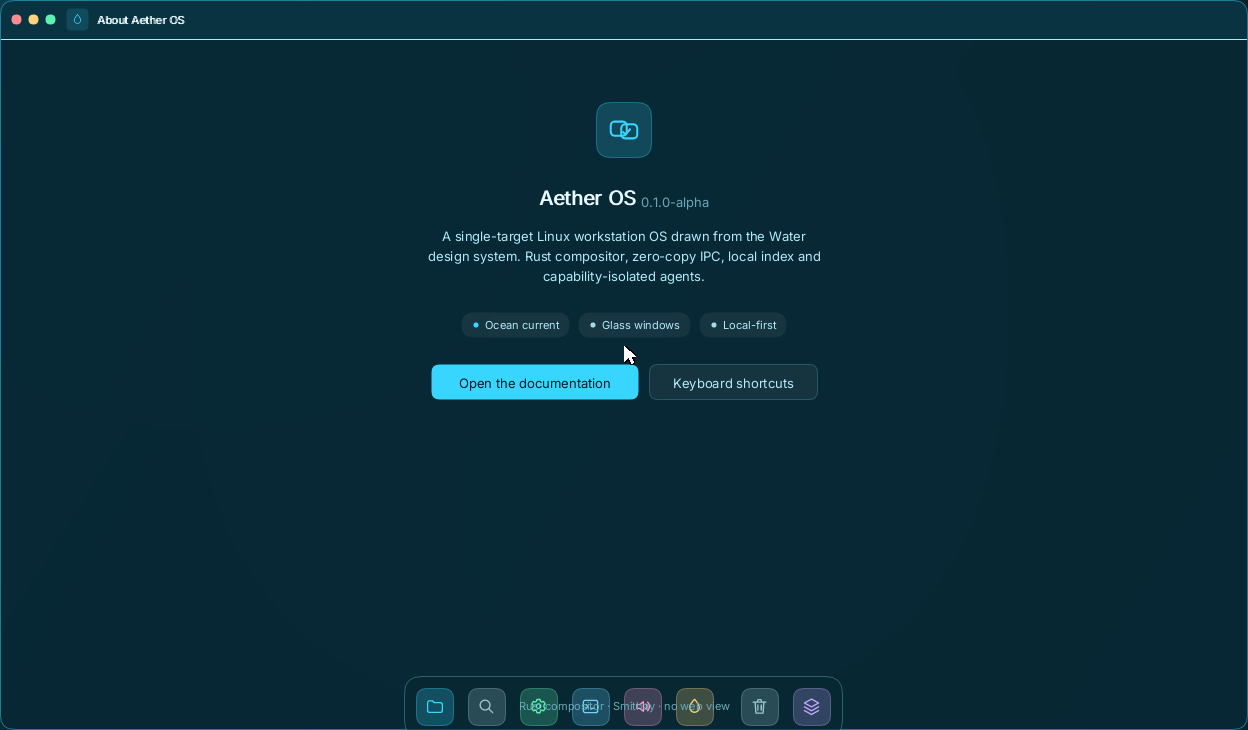
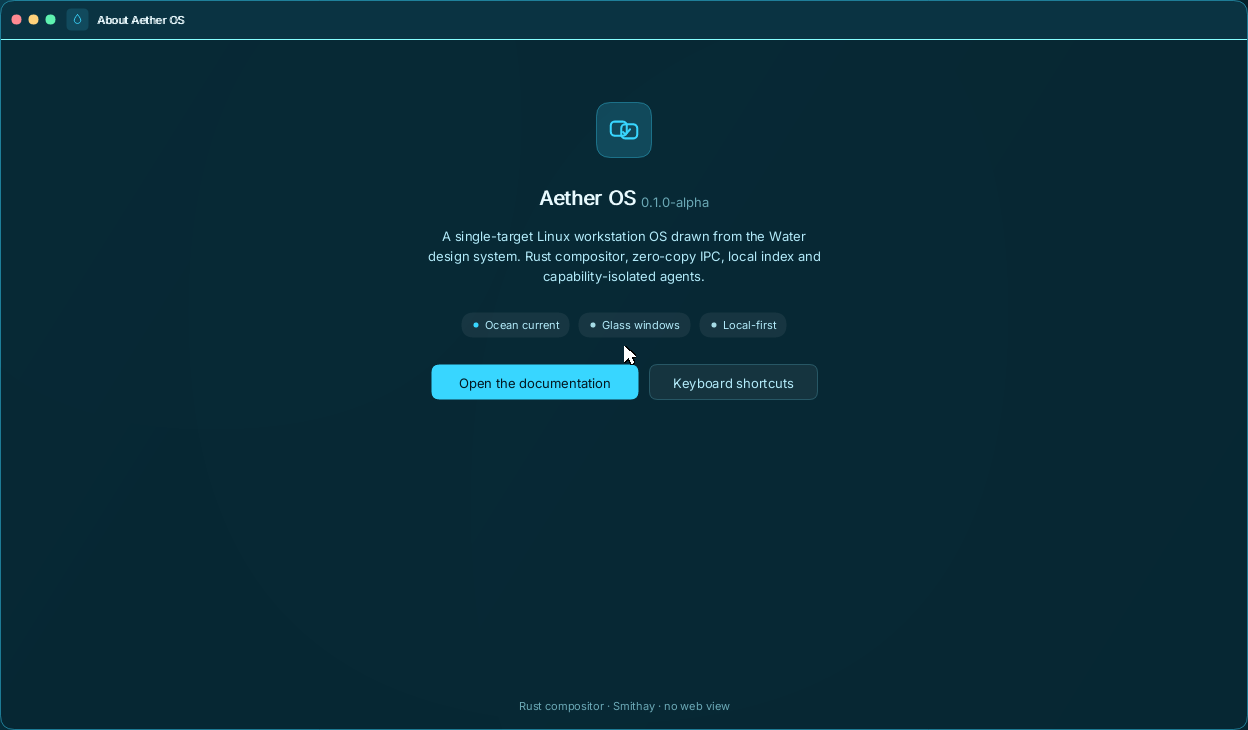
docs(parity): refresh the app report with the new apps and trays
Capture every first-party app and tray in one smoke run
(smoke-system-apps-xvfb.sh) with AETHER_HIDE_DOCK so the dock never bleeds
into a window crop. The report now shows 18 implemented, 2 partial, 2
missing and 4 Aether-only surfaces, with 46 element screenshots, the new
Aether revision and the demo's current window box (1248 x 730).

Changed region(s): [[0.3125, 0.9342, 0.6875, 1.0]]

diff --git a/reports/os-app-parity/index.html b/reports/os-app-parity/index.html
@@ -41,7 +41,7 @@
   <p class="lede">Every surface from the Water OS demo next to the current Aether compositor. Captures are element or window crops only — no full-desktop frames.</p>
   <p class="meta">
     <span>Source · ba9740a Center dock tiles in left and right dock positions (+ local changes)</span>
-    <span>Aether · 7c4596b feat(shell): bring the Explorer up to the demo layout</span>
+    <span>Aether · 53019ca feat(shell): grow first-party windows to the demo's 730 px box</span>
     <span>1280×800 · clock pinned to 2026-11-18 16:47 UTC</span>
   </p>
   <div class="stats">

diff --git a/os/compositor/aether-shell-wayland/src/app/overlays/dock.rs b/os/compositor/aether-shell-wayland/src/app/overlays/dock.rs
@@ -15,6 +15,11 @@ impl App {
     }
 
     pub(crate) fn dock_visible(&self, output: OutputId) -> bool {
+        // Capture switch: app-only screenshots should not bake the floating
+        // dock over the bottom of a window crop.
+        if std::env::var_os("AETHER_HIDE_DOCK").is_some() {
+            return false;
+        }
         self.shell.fullscreen_window_on(output).is_none()
     }
 

diff --git a/CHANGELOG.md b/CHANGELOG.md
@@ -1,3 +1,26 @@
+## v0.1.0-alpha.80
+
+- Close most of the app parity gap against the Water OS concept. New
+  compositor-owned windows, each with the demo's 1248 × 730 box and 40 px title
+  bar: **Network** (interfaces, IP, router, DNS, switches), **Battery** (charge,
+  energy mode, health, CPU consumers), **Devices** (Bluetooth), **Tide Radio**
+  (artwork, transport, queue), **About**, and a **14-tab Settings** app whose
+  Appearance switches drive the Water theme.
+- Add the five **menu-bar trays** at the demo's exact sizes: Wi-Fi, Bluetooth,
+  battery (with energy segments), sound (volume) and a calendar month popover.
+  Each footer opens the matching app.
+- Rebuild the **Explorer** as the demo's single-pane browser: sidebar,
+  breadcrumb toolbar, hidden switch, in-pane search row and
+  Name/Type/Size/Modified columns backed by one stat per path.
+- Turn the **Task Manager** into a first-party window and grow every window to
+  the source concept's 730 px height; the dock floats above the window bottom.
+- Add `smoke-system-apps-xvfb.sh` (all apps + trays in one capture run) and an
+  `AETHER_HIDE_DOCK` capture switch for clean window crops. The parity report is
+  now **18 implemented / 2 partial / 2 missing / 4 Aether-only**.
+- Verification: `cargo test` (aether-shell 85, aether-shell-wayland 64),
+  clippy `-D warnings` and rustfmt for the standalone crate, the Xvfb smoke set,
+  and a rendered report with 46 element screenshots and no broken references.
+
 ## v0.1.0-alpha.79
 
 - Add an **app-by-app parity report**: `bun run parity:apps` serves the local

diff --git a/reports/os-app-parity/ROADMAP.md b/reports/os-app-parity/ROADMAP.md
@@ -2,7 +2,7 @@
 
 Source: `ba9740a Center dock tiles in left and right dock positions (+ local changes)` (local design-system/ checkout)
 
-Aether: `7c4596b feat(shell): bring the Explorer up to the demo layout`
+Aether: `53019ca feat(shell): grow first-party windows to the demo's 730 px box`
 
 Implemented **18** · partial **2** · missing **2** · Aether-only **4**.
 
